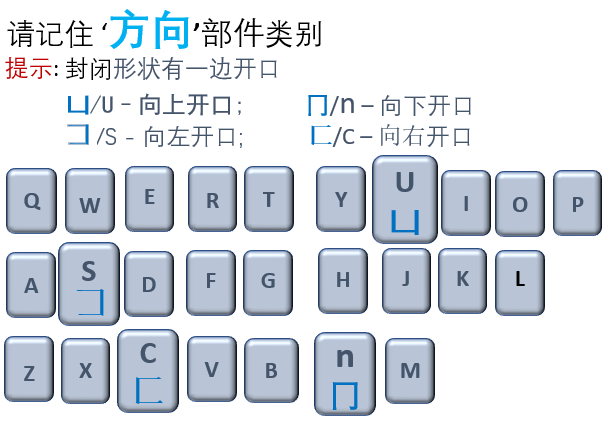
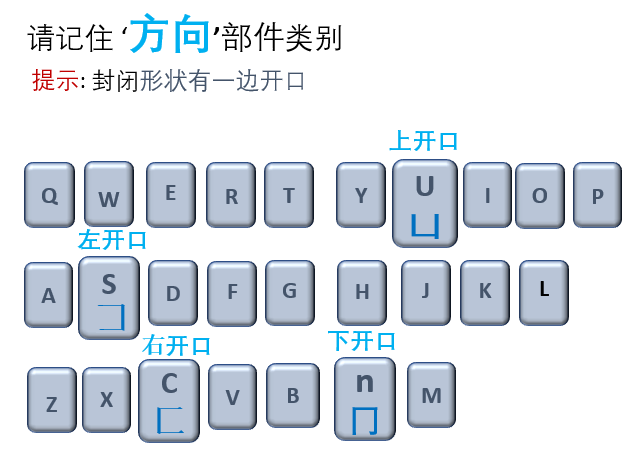
updated typing comp category sheets

diff --git a/lib/ui/standardexampage.dart b/lib/ui/standardexampage.dart
@@ -153,9 +153,9 @@ class _StandardExamPageState extends State<StandardExamPage> {
             crossAxisAlignment: CrossAxisAlignment.stretch,
             children: <Widget>[
               getText(AnswerPosition.positionA),
-              SizedBox(height: 5.0 * getSizeRatio()),
+              SizedBox(height: 15.0 * getSizeRatio()),
               getText(AnswerPosition.positionB),
-              SizedBox(height: 5.0 * getSizeRatio()),
+              SizedBox(height: 15.0 * getSizeRatio()),
               getText(AnswerPosition.positionC),
             ]
         )
@@ -170,9 +170,9 @@ class _StandardExamPageState extends State<StandardExamPage> {
               mainAxisAlignment: MainAxisAlignment.spaceAround,
               children: <Widget>[
                 getSoundImage(AnswerPosition.positionA),
-                SizedBox(height: 5.0 * getSizeRatio()),
+                SizedBox(height: 15.0 * getSizeRatio()),
                 getSoundImage(AnswerPosition.positionB),
-                SizedBox(height: 5.0 * getSizeRatio()),
+                SizedBox(height: 15.0 * getSizeRatio()),
                 getSoundImage(AnswerPosition.positionC),
               ]
           ),

diff --git a/lib/localization/string_zh_CN.dart b/lib/localization/string_zh_CN.dart
@@ -318,7 +318,7 @@ var theString_zh_CN = [
   Local(312, "提示：如果一个汉字只包含一个部件，首先输入该部件，然后，如果需要，可以继续输入至多三个笔画：第一个，第二个和最后一个笔画。"),
   Local(313, "提示：如果一个汉字包含二个部件，首先输入这两个部件，然后，如果需要，可以继续输入至多两个笔画：第一和第二个部件的最后一个笔画。"),
   Local(314, "如果有两种拆分部件的方法，选择能使一个部件拥有最多笔画的方法。"),
-  Local(315, "一张口"),
+  Local(315, "单口"),
   Local(316, "'横'作为主要笔画"),
   Local(317, "向右开口"),
   Local(318, "'撇'作为第一个笔画"),
